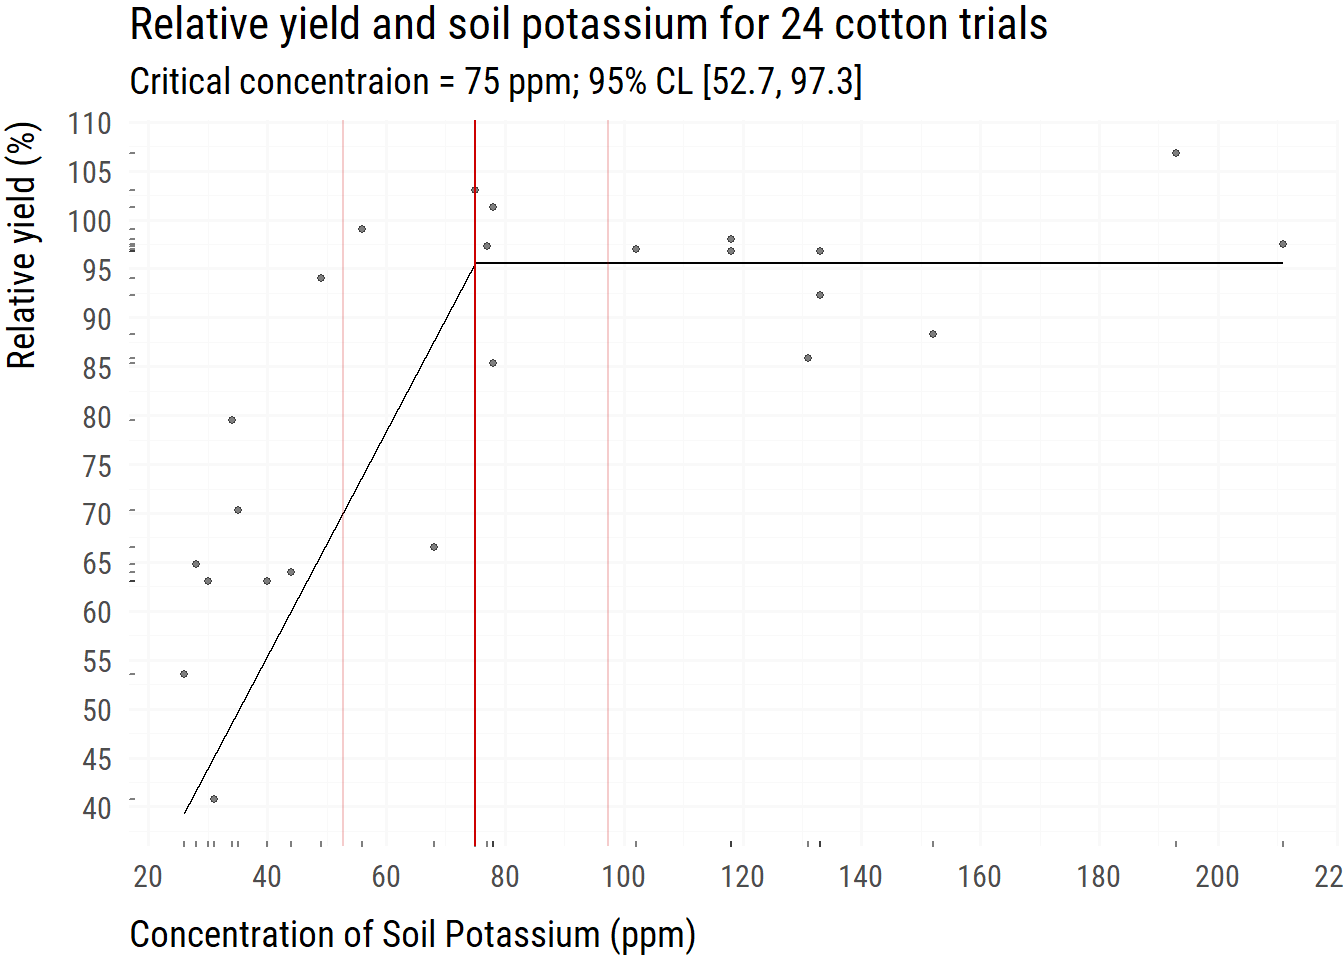
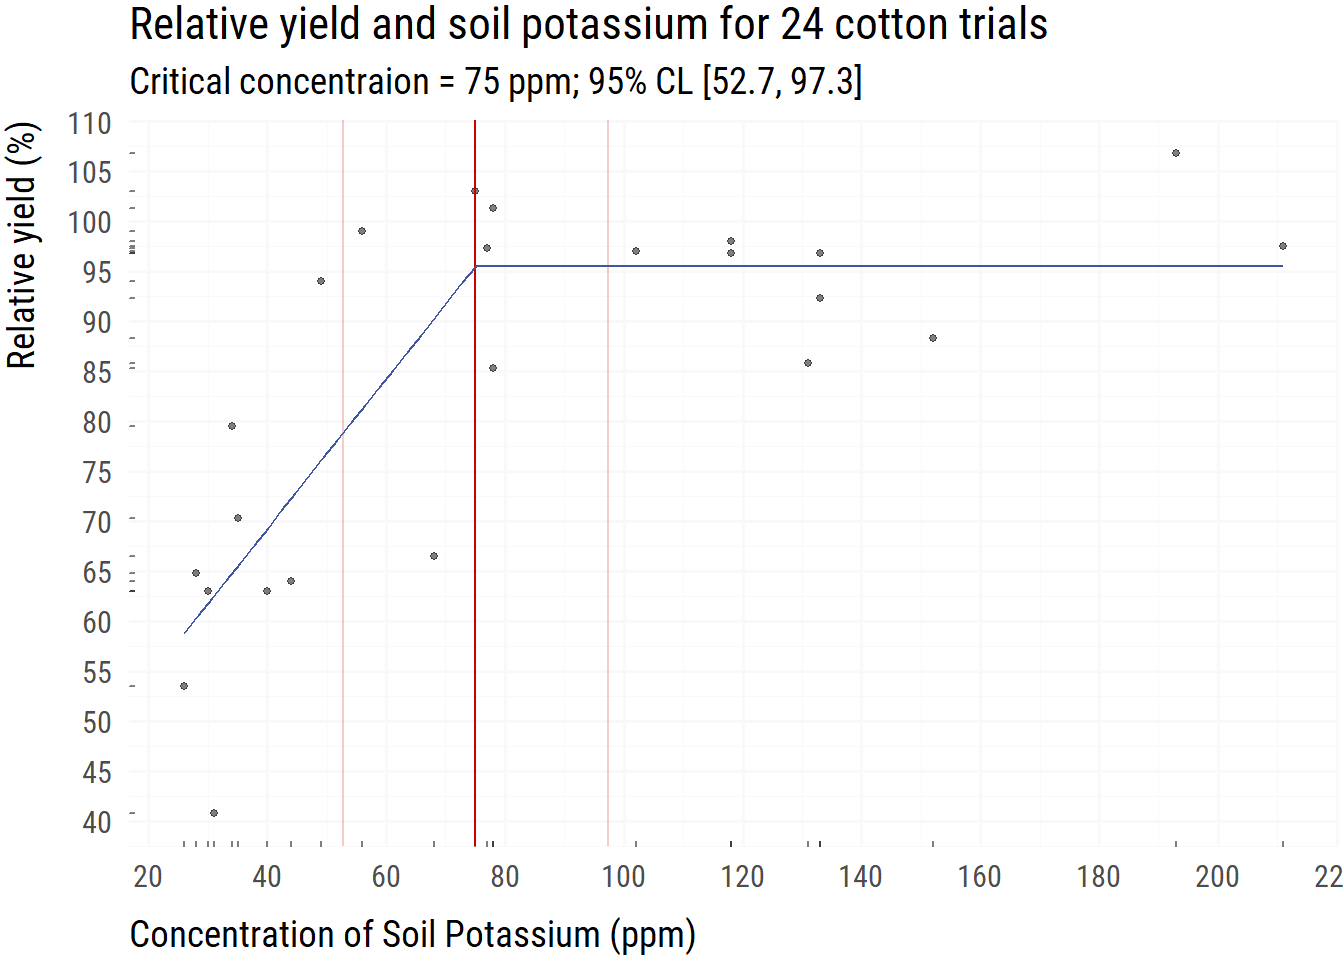
fix formula nlsLM

diff --git a/content/post/how-to-linear-plateau-R.html b/content/post/how-to-linear-plateau-R.html
@@ -72,8 +72,8 @@ lp &lt;- function(x, a, b, c) {
 lin_plateau &lt;- function(data) {
     # initial values
     ini_fit &lt;- lm(data = data, formula = yield ~ potassium)
-    ini_a &lt;- ini_fit$coefficients[[1]]
-    ini_b &lt;- ini_fit$coefficients[[2]]
+    ini_a &lt;- ini_fit$coef[[1]]
+    ini_b &lt;- ini_fit$coef[[2]]
     ini_c &lt;- mean(data$potassium)
     
     # linear plateau model
@@ -111,23 +111,18 @@ lin_plateau &lt;- function(data) {
     plotNormalHistogram(residuals(lp_model))
     plot(fitted(lp_model), residuals(lp_model))
     
-    a  &lt;- coefficients(lp_model)[[1]]
-    b  &lt;- coefficients(lp_model)[[2]]
-    cc &lt;- coefficients(lp_model)[[3]]
+    a  &lt;- coef(lp_model)[[1]]
+    b  &lt;- coef(lp_model)[[2]]
+    cc &lt;- coef(lp_model)[[3]]
     plateau &lt;- round(a + b * cc, 1)
     
     print(paste(&quot;Plateau at &quot;, plateau, &quot;% yield&quot;))
-    
-    # ggplot style
-    lp_line &lt;- tibble(x = c(min(data$potassium), cc, max(data$potassium)),
-        y = c(a, a + (b * cc), a + (b * cc)))
     
     # other plot
     data %&gt;%
       ggplot(aes(x = potassium, y = yield)) +
       geom_point(size = 1, alpha = 0.5) +
       geom_rug(alpha = 0.5, length = unit(2, &quot;pt&quot;)) +
-      geom_line(data = lp_line, aes(x = x, y = y)) +
       geom_vline(xintercept = cc,
                  color = &quot;#CC0000&quot;) +
       geom_vline(
@@ -135,6 +130,12 @@ lin_plateau &lt;- function(data) {
         color = &quot;#CC0000&quot;,
         alpha = 0.2
       ) +
+      geom_smooth(method = &quot;nlsLM&quot;,
+                formula = y ~ lp(x, a, b, c),
+                method.args = list(start = as.list(coef(lp_model))),
+                se = FALSE,
+                color = &quot;#4156a1&quot;,
+                size = 0.5) +
       scale_x_continuous(breaks = seq(0, 1000, 20)) +
       scale_y_continuous(breaks = seq(0, 200, 5)) +
       labs(subtitle = paste0(&quot;Critical concentraion = &quot;, round(cc, 0),

diff --git a/content/post/how-to-quad-plateau-R.html b/content/post/how-to-quad-plateau-R.html
@@ -128,12 +128,6 @@ quad_plateau &lt;- function(data) {
     ggplot(aes(x = potassium, y = yield)) +
     geom_point(size = 1, alpha = 0.5) +
     geom_rug(alpha = 0.5, length = unit(2, &quot;pt&quot;)) +
-    geom_smooth(method = &quot;nls&quot;,
-                formula = y ~ qp(x, a, b, c),
-                method.args = list(start = as.list(coef(qp_model))),
-                se = FALSE,
-                color = &quot;#4156a1&quot;,
-                size = 0.5) +
     geom_vline(xintercept = cc,
                color = &quot;#CC0000&quot;) +
     geom_vline(
@@ -141,6 +135,12 @@ quad_plateau &lt;- function(data) {
       color = &quot;#CC0000&quot;,
       alpha = 0.2
     ) +
+    geom_smooth(method = &quot;nlsLM&quot;,
+                formula = y ~ qp(x, a, b, c),
+                method.args = list(start = as.list(coef(qp_model))),
+                se = FALSE,
+                color = &quot;#4156a1&quot;,
+                size = 0.5) +
     scale_x_continuous(breaks = seq(0, 1000, 20)) +
     scale_y_continuous(breaks = seq(0, 200, 5)) +
     labs(subtitle = paste0(
